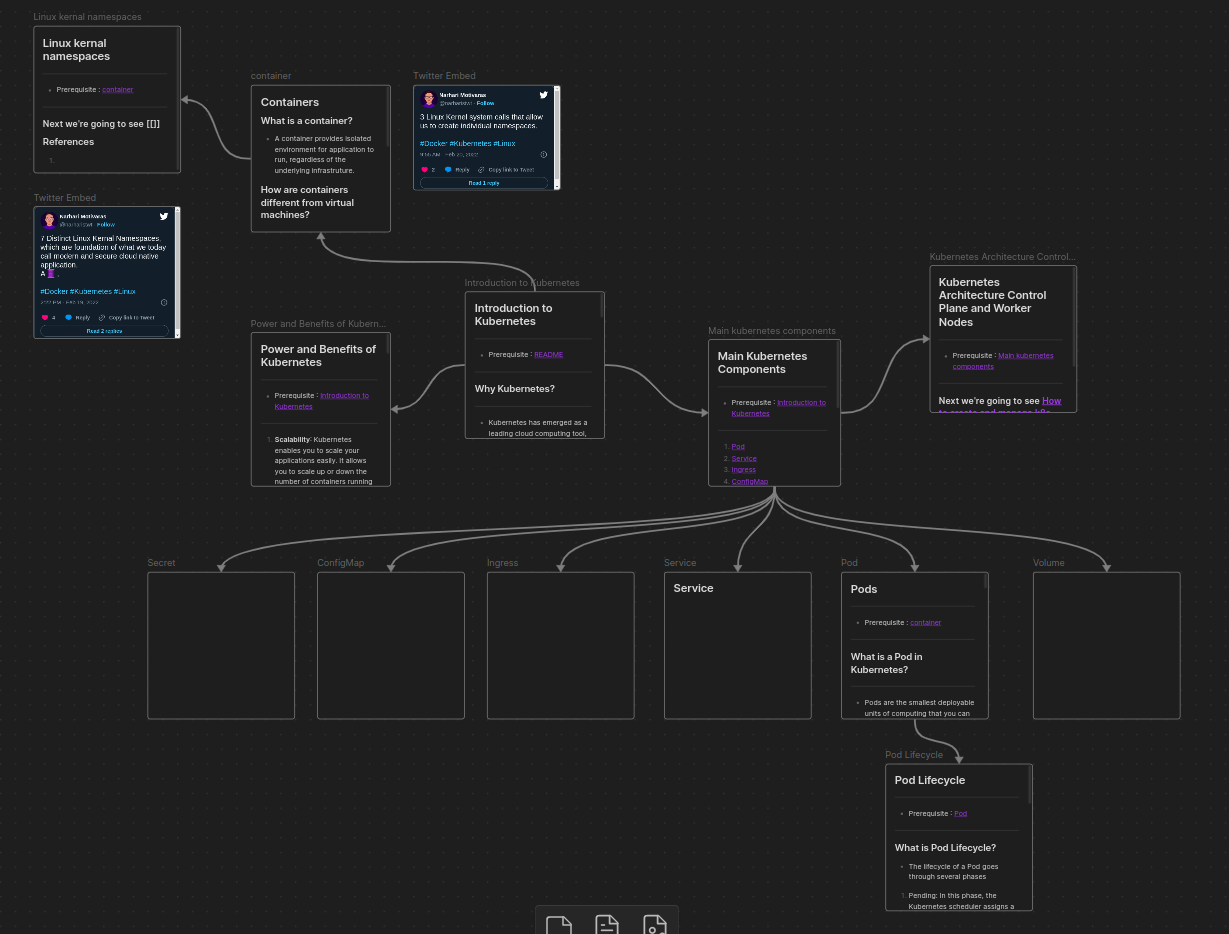
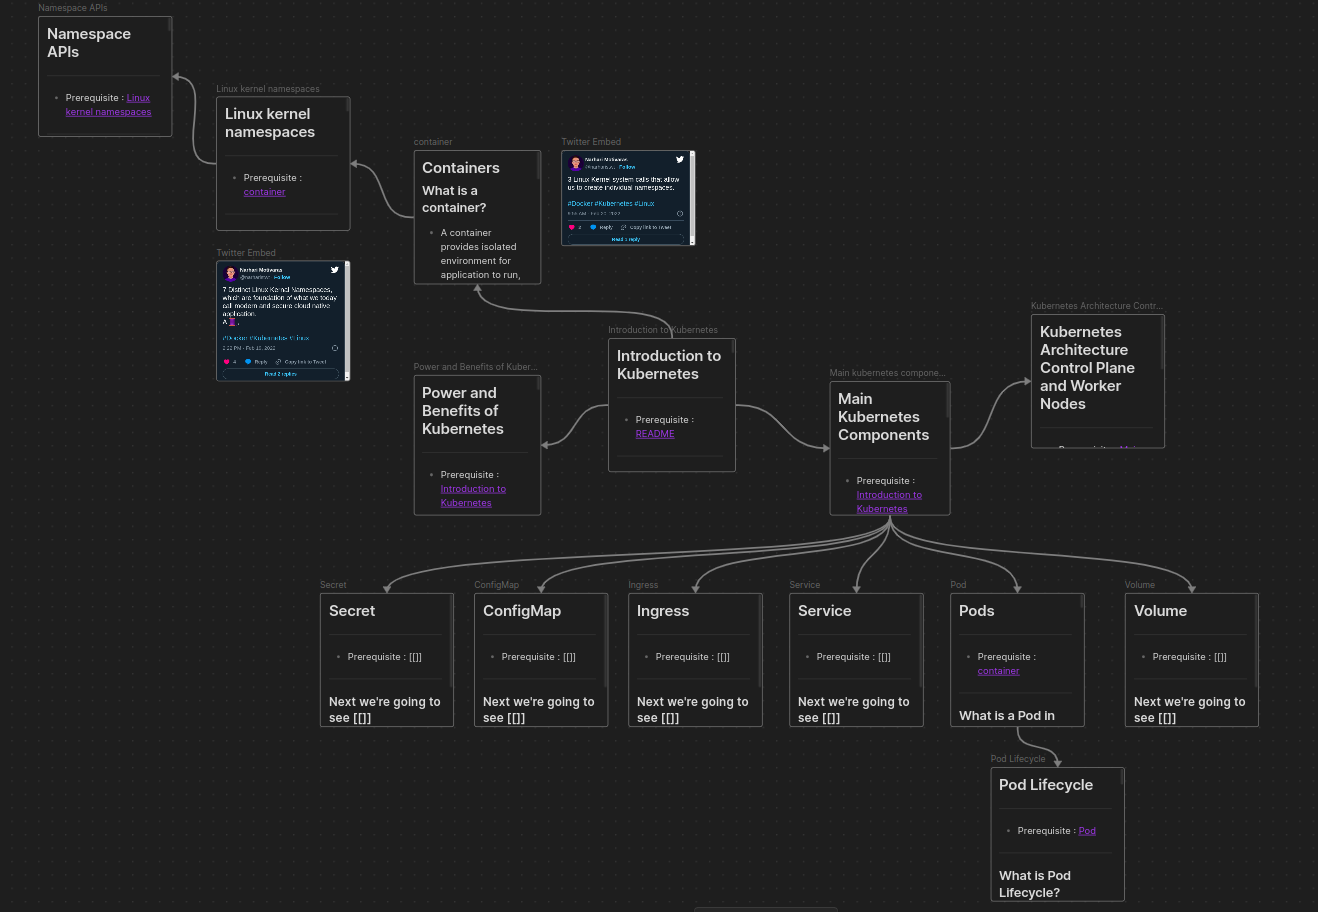
added namespaces api notes
Affected files:
Kubernetes.canvas
Linux kernel namespaces.md
Namespace APIs.md
kubernetes-map.png

diff --git a/Namespace APIs.md b/Namespace APIs.md
@@ -2,15 +2,17 @@
 ---
 -  Prerequisite : [[Linux kernel namespaces]]
 ---
-- The namespace API of the Linux kernel consist of four system calls, which allows us to create namespaces.
+- The namespace API of the Linux kernel consist of three system calls, which allows us to create namespaces.
 ### clone
-
+- When we create a new child process using the ***fork()*** system call, the child process inherits most of its attributes from the parent process. It shares the same memory, file descriptors and signal handlers.
+- However when creating a new child process using the ***clone()***, the parent process has more precise control over what the parent process and child process share. It allows to place the child process in separate namespace. 
 ### unshare
-
+- ***unshare()***  system call allows a process to have more control over what it shares with other processes without creating a completely new process.
+- It does it by disassociating parts of its execution context that are currently being shared with other processes
 ### setns
-
-### ioctl
-
+- The ***setns()***  system call is used to join an existing namespaces in Linux. It allows a process to become a member of a particular namespace thereby gaining access to context and resources associated with that namespaces.
 #### Next we're going to see [[]]
 ### References
-1.
+1. https://man7.org/linux/man-pages/man2/clone.2.html
+2. https://man7.org/linux/man-pages/man2/unshare.2.html
+3. https://man7.org/linux/man-pages/man2/setns.2.html

diff --git a/Linux kernel namespaces.md b/Linux kernel namespaces.md
@@ -7,6 +7,7 @@
 - This provides an environment wherein the processes running inside a namespace have separate system resources like file system, CPU, memory, and more.
 - Changes to the system resources inside the namespace are visible to the processes within the same namespace and are invisible to other processes running in different namespace
 - Namespaces as the building foundation for **containers**.
+- 
 ## There are a total of 7 Linux Kernal Namespaces
  ### Mount Namespace 
  - In Linux, the file system is like a big tree with directories, and files and processes in our system share the same view of this tree.
@@ -38,4 +39,4 @@
  
 #### Next we're going to see [[Namespace APIs]]
 ### References
-1.
+1. https://man7.org/linux/man-pages/man7/namespaces.7.html
